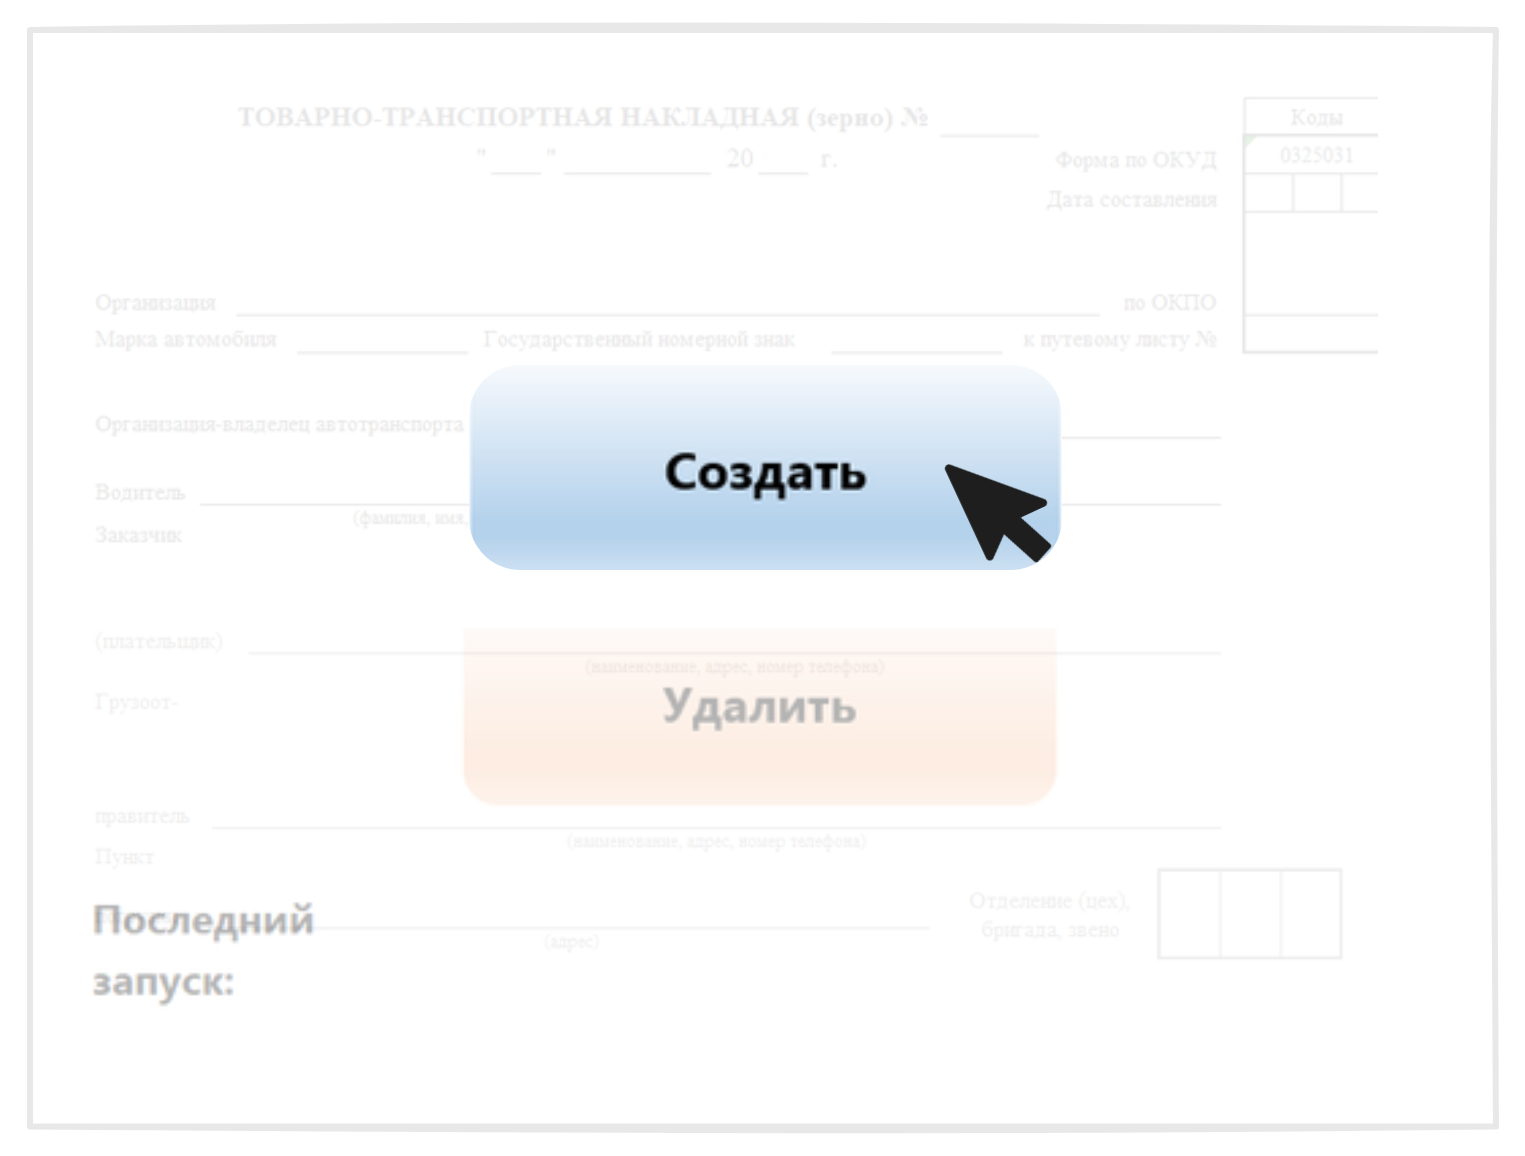
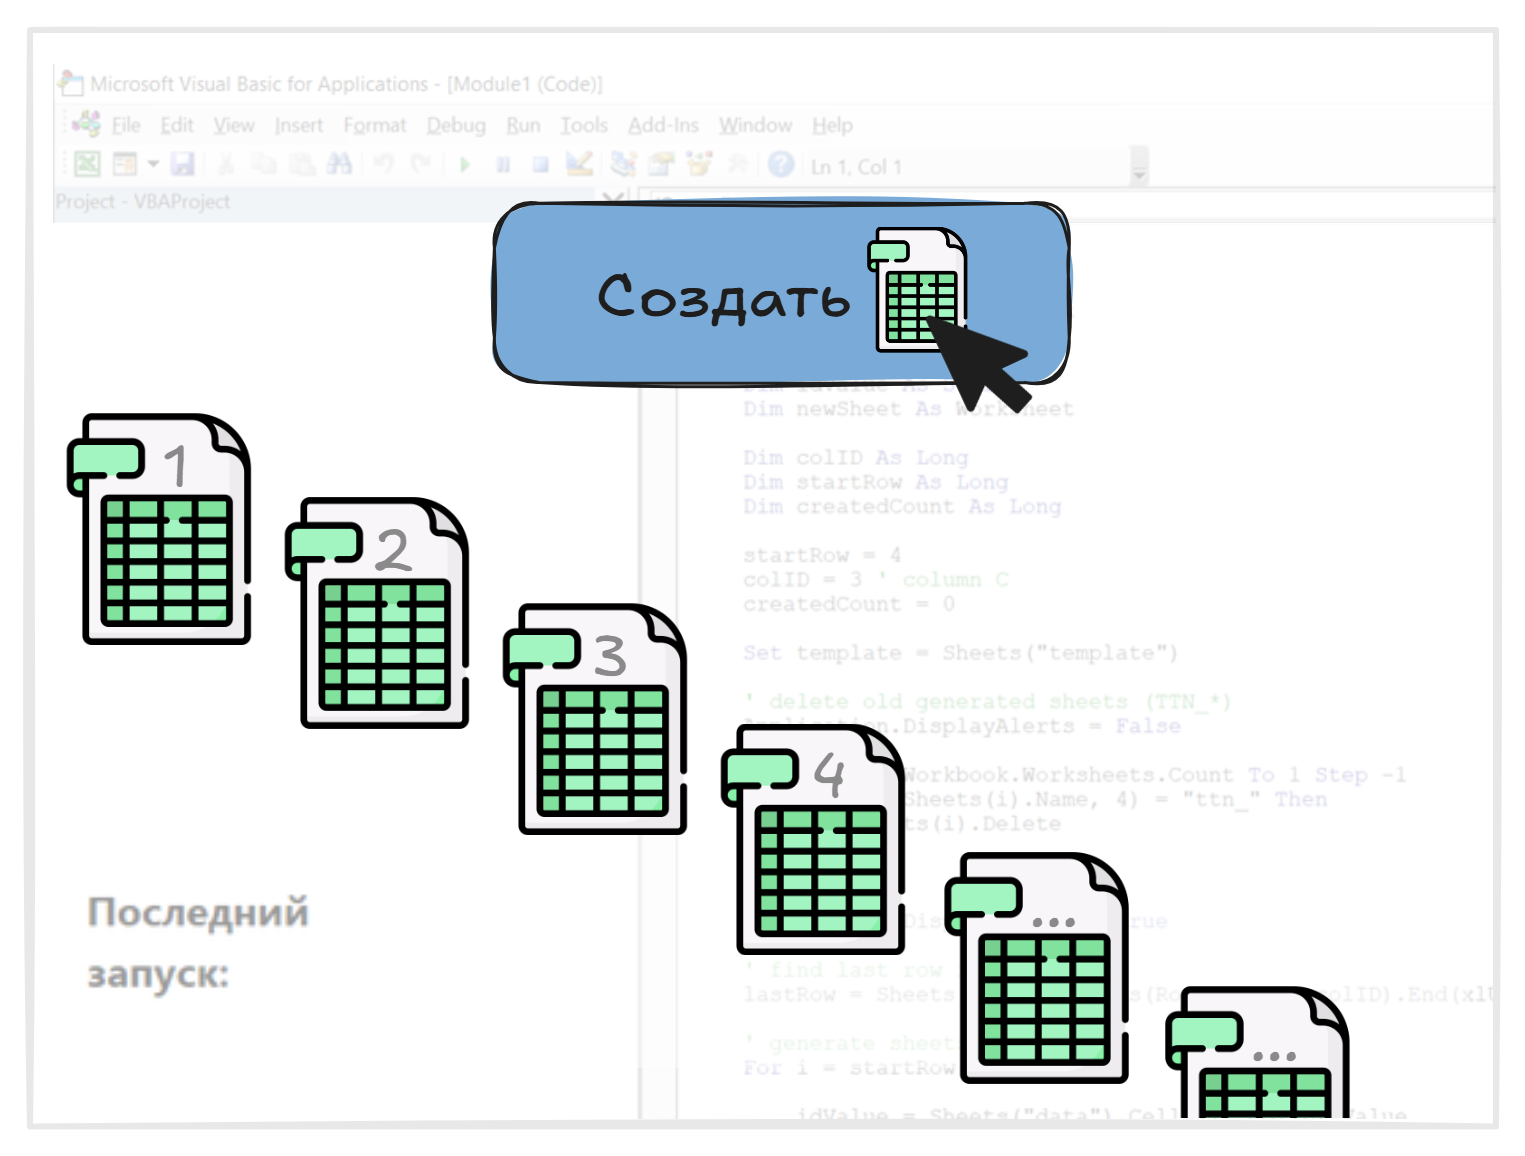
Update cover

diff --git a/collections/_projects/2025-11-19-automation-of-waybill-creation-ru.md b/collections/_projects/2025-11-19-automation-of-waybill-creation-ru.md
@@ -1,11 +1,11 @@
 ---
 date: 2025-11-19 14:00:35 +0300
 title: Автоматизация создания накладных
-subtitle: Excel-решение с использованием макросов для автоматического создания накладных из единого источника данных.
+subtitle: Excel-решение с использованием макросов для автоматического создания n-количества накладных.
 tools: [Excel, VBA]
 category: [automation]
 tags: [Excel, VBA, automation]
-image: "/assets/projects/waybills-creation/cover-2.png"
+image: "/assets/projects/waybills-creation/cover.png"
 lang: ru
 ref: waybills-creation
 translated: true

diff --git a/collections/_projects/2025-11-19-automation-of-waybill-creation.md b/collections/_projects/2025-11-19-automation-of-waybill-creation.md
@@ -5,7 +5,7 @@ subtitle: Excel solution using macro for auto creation of waybills from a single
 tools: [Excel, VBA]
 category: [automation]
 tags: [Excel, VBA, automation]
-image: "/assets/projects/waybills-creation/cover-2.png"
+image: "/assets/projects/waybills-creation/cover.png"
 lang: en
 ref: waybills-creation
 translated: false